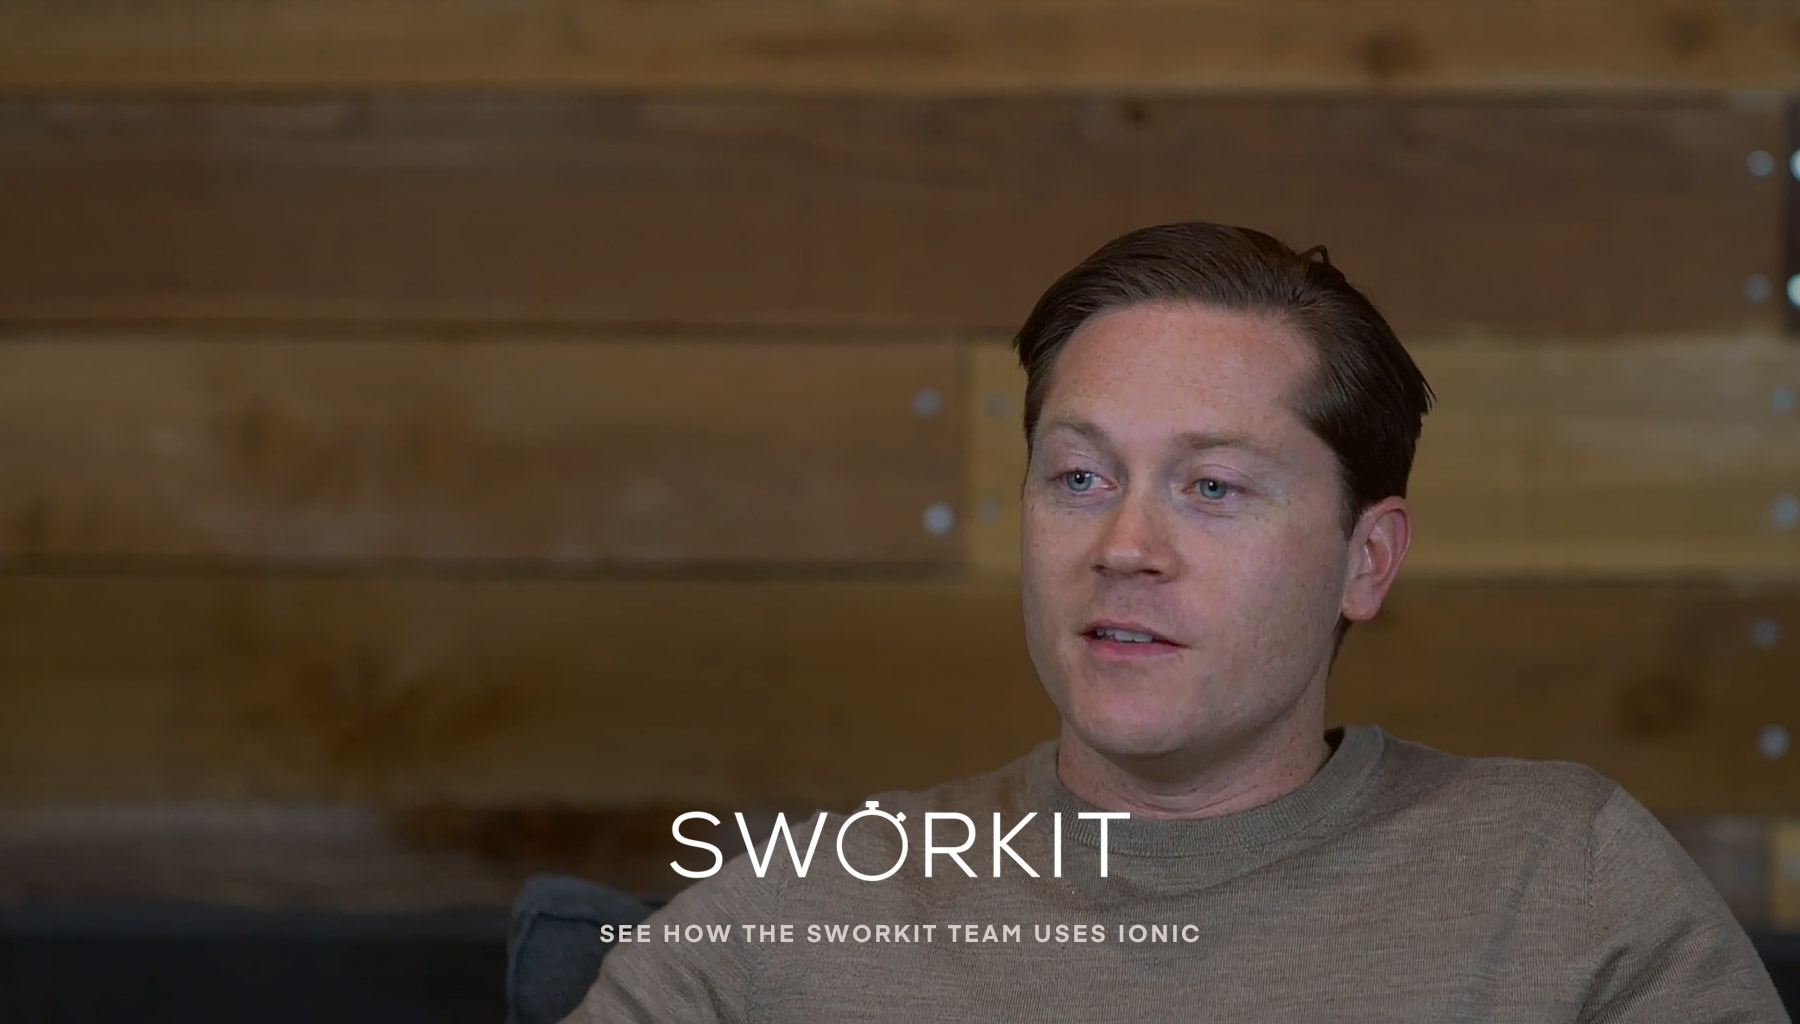
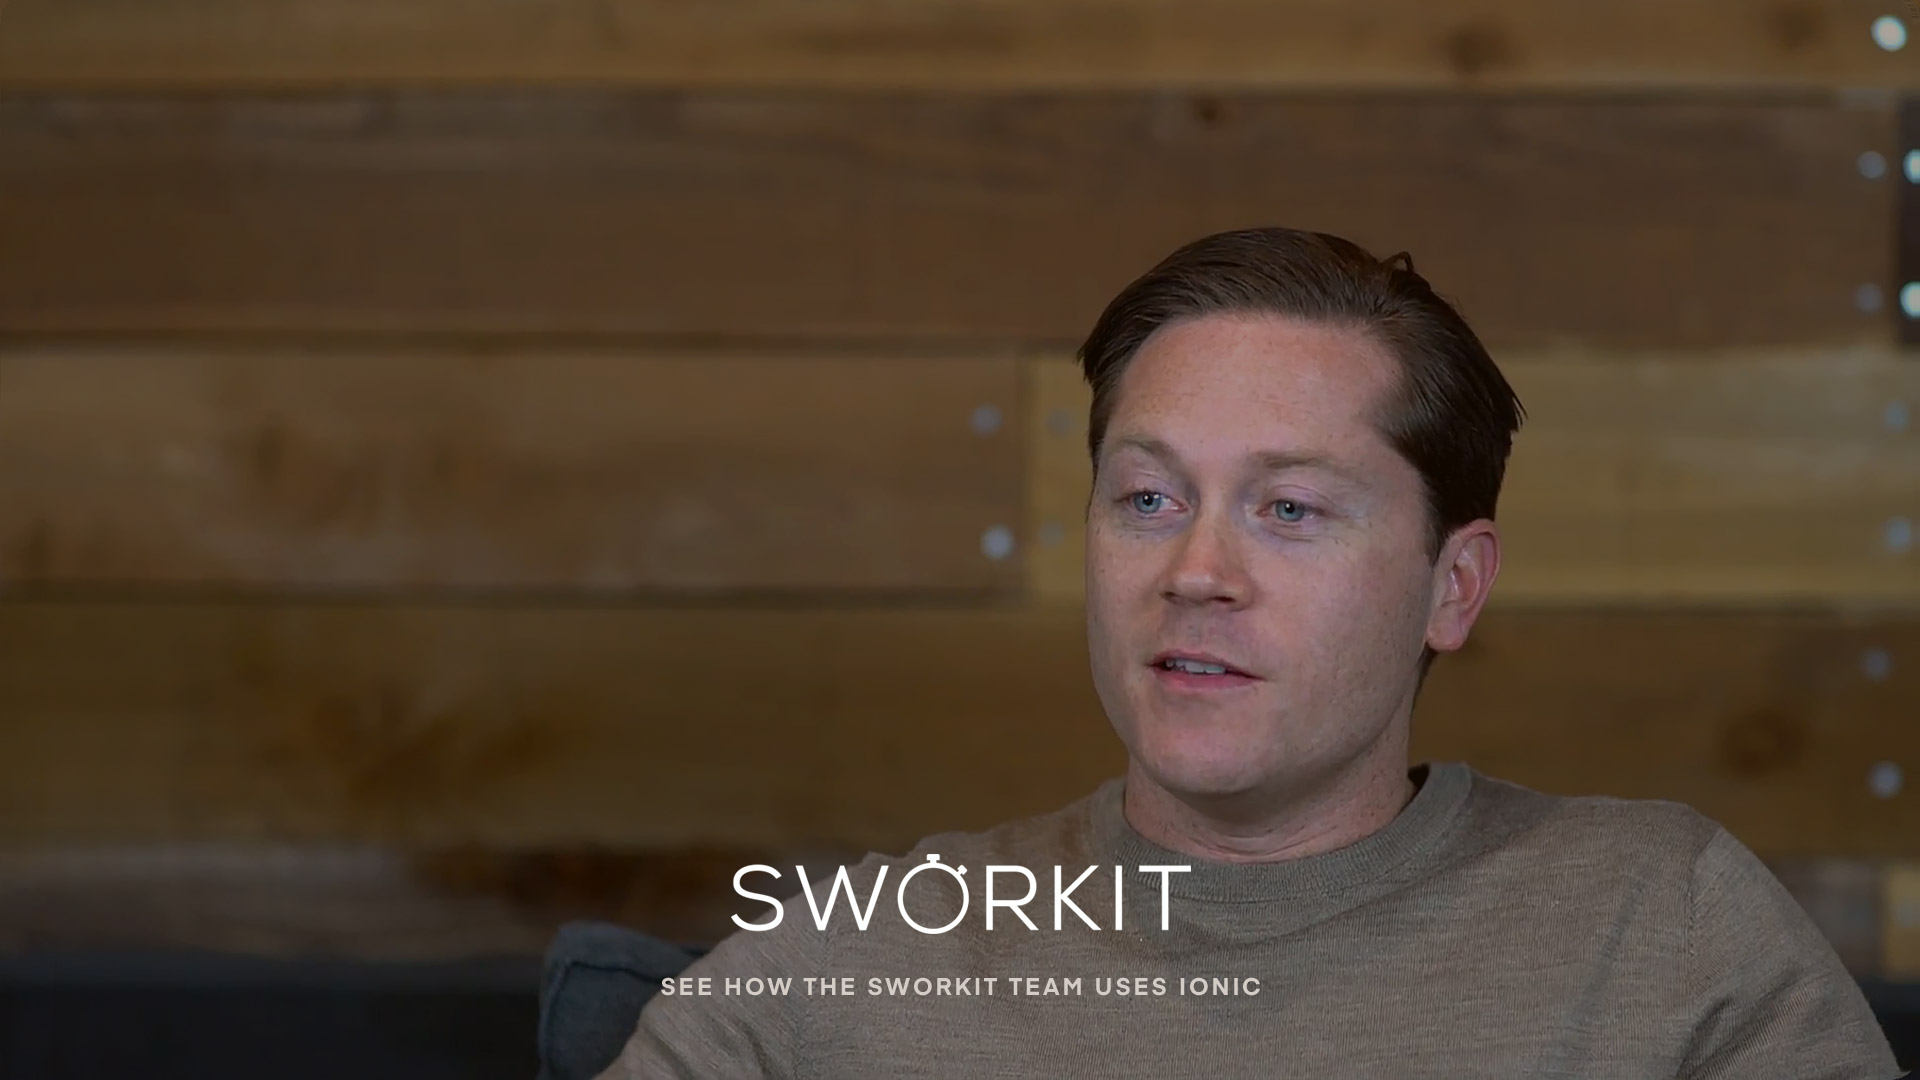
Update startups video poster and aspect ratio

diff --git a/assets/scss/pages/_startups.scss b/assets/scss/pages/_startups.scss
@@ -97,7 +97,7 @@
     box-shadow: 0 8px 16px rgba(0,14,41,0.08), 0 30px 60px rgba(0,11,34,0.15);
     height: 0;
     overflow: hidden;
-    padding-bottom: 56.88%;
+    padding-bottom: 56.25%;
     position: relative;
     transform: scale(1);
     transition: transform 400ms cubic-bezier(0.19, 1, 0.22, 1);
